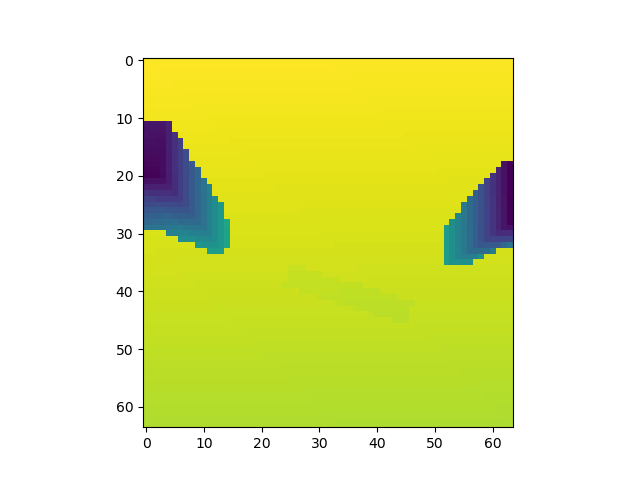
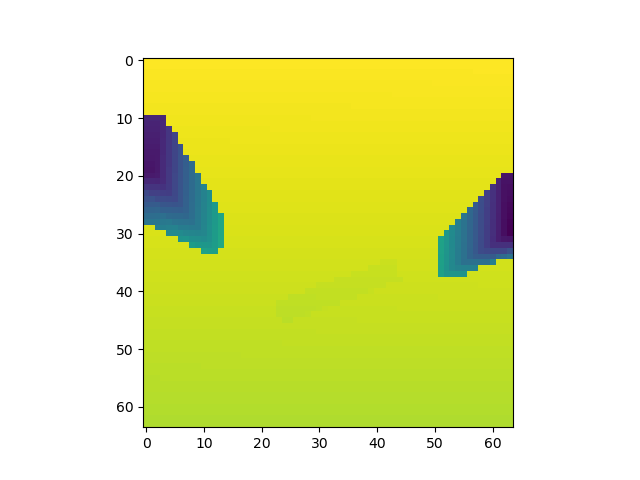
na

diff --git a/Deep Reinforcement Learning Enabled Robot Grasping/SimplifiedWorld.py b/Deep Reinforcement Learning Enabled Robot Grasping/SimplifiedWorld.py
@@ -170,8 +170,15 @@ class SimplifiedWorld(gym.Env):
         obs = np.array(depthImg)
         plt.imshow(obs)
         plt.savefig(str(self._envStepCounter) + ".png")
+        near, far = 0.2, 2
+
         obs = obs[np.newaxis, :, :]
-        
+        depth_buffer = np.asarray(depthImg, np.float32).reshape(
+            (self._height, self._width))
+        obs = 1. * far * near / (far - (far - near) * depth_buffer)
+        plt.imshow(obs)
+        plt.savefig(str(self._envStepCounter) + "modified.png")
+        obs = obs[np.newaxis, :, :]
         return obs
 
     def closeGripper(self):
@@ -276,10 +283,10 @@ class SimplifiedWorld(gym.Env):
         else:
             return 0
 
-env = SimplifiedWorld(renders = False)
-#env = make_vec_env(lambda: env, n_envs=1)
-model = SAC("CnnPolicy", env, verbose=1, device = 'cpu')
-#env = VecNormalize(env)
+env = SimplifiedWorld(renders = True)
+env = make_vec_env(lambda: env, n_envs=1)
+model = SAC("CnnPolicy", env, verbose=1, device = 'cuda')
+env = VecNormalize(env)
 model.learn(total_timesteps=1000000, log_interval=4)
 
 #UNIT TEST - ensure multiple random initialization result in block position/orientation congruent with Baris thesis
